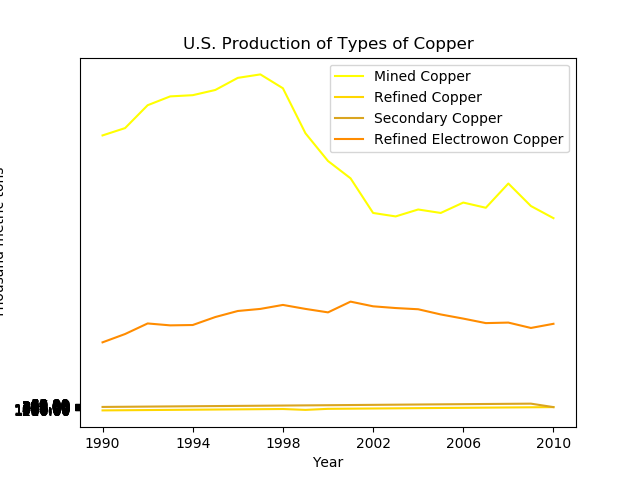
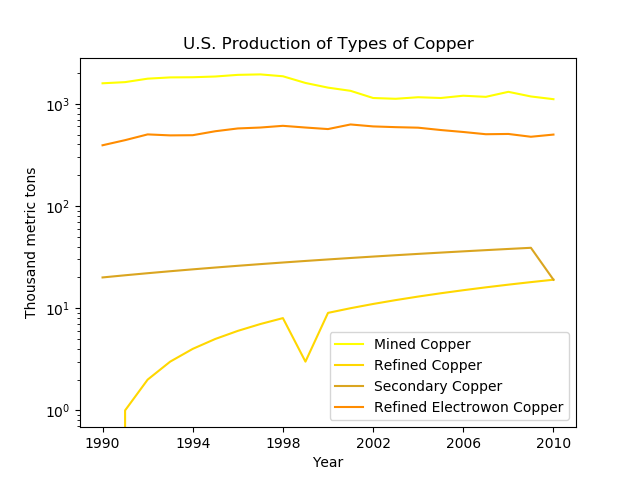
yea whatever

diff --git a/src/mineral/uscopper.py b/src/mineral/uscopper.py
@@ -19,6 +19,10 @@ alldf = [cu, cu2, cu3, cu4]
 usmine = usmine.transpose()
 usproc = usproc.transpose()
 
+cu["Year"] = [int(i) for i in cu["Year"]]
+cu2["Year"] = [int(i) for i in cu2["Year"]]
+cu3["Year"] = [int(i) for i in cu3["Year"]]
+cu4["Year"] = [int(i) for i in cu4["Year"]]
 usmine["Year"] = [int(i) for i in usmine.index]
 usproc["Year"] = [int(i) for i in usproc.index]
 
@@ -41,19 +45,9 @@ plt.title("U.S. Production of Types of Copper")
 plt.legend(loc=0)
 plt.xlabel("Year")
 plt.ylabel("Thousand metric tons")
+plt.yscale("log")
 plt.xticks(range(1990, 2011, 4))
 plt.savefig("output/mineral/uscopperprod.png")
-
-fig = plt.figure()
-ax = fig.add_subplot()
-plt.plot("Year", "CopperConsumption", data=usmine, color="r", label="U.S. Copper Consumption")
-plt.plot("Year", "CopperProduction", data=usmine, color="g", label="U.S. Copper Production")
-plt.title("U.S. Consumption of Mined Copper")
-plt.ylabel("Thousand metric tons")
-plt.xlabel("Year")
-plt.xticks(range(2005, 2010))
-plt.legend(loc=0)
-plt.savefig("output/mineral/uscoppercon.png")
 
 fig = plt.figure()
 ax = fig.add_subplot()
@@ -86,7 +80,7 @@ plt.plot("Year", "totcuprodtmt", data=usproc, color="#000000", label="U.S. Total
 plt.plot("Year", "smecuprodtmt", data=usproc, color="r", label="U.S. Smelted Copper Production")
 plt.plot("Year", "refcuprodtmt", data=usproc, color="g", label="U.S. Refined Copper Production")
 plt.plot("Year", "seccuprodtmt", data=usproc, color="y", label="U.S. Secondary Copper Production")
-plt.plot("csprodtmt", data=usproc, color="b", label="U.S. Copper-Sulfate Production")
+plt.plot("Year", "csprodtmt", data=usproc, color="b", label="U.S. Copper-Sulfate Production")
 plt.title("U.S. Copper Production")
 plt.ylabel("Thousand metric tons")
 plt.xlabel("Year")
